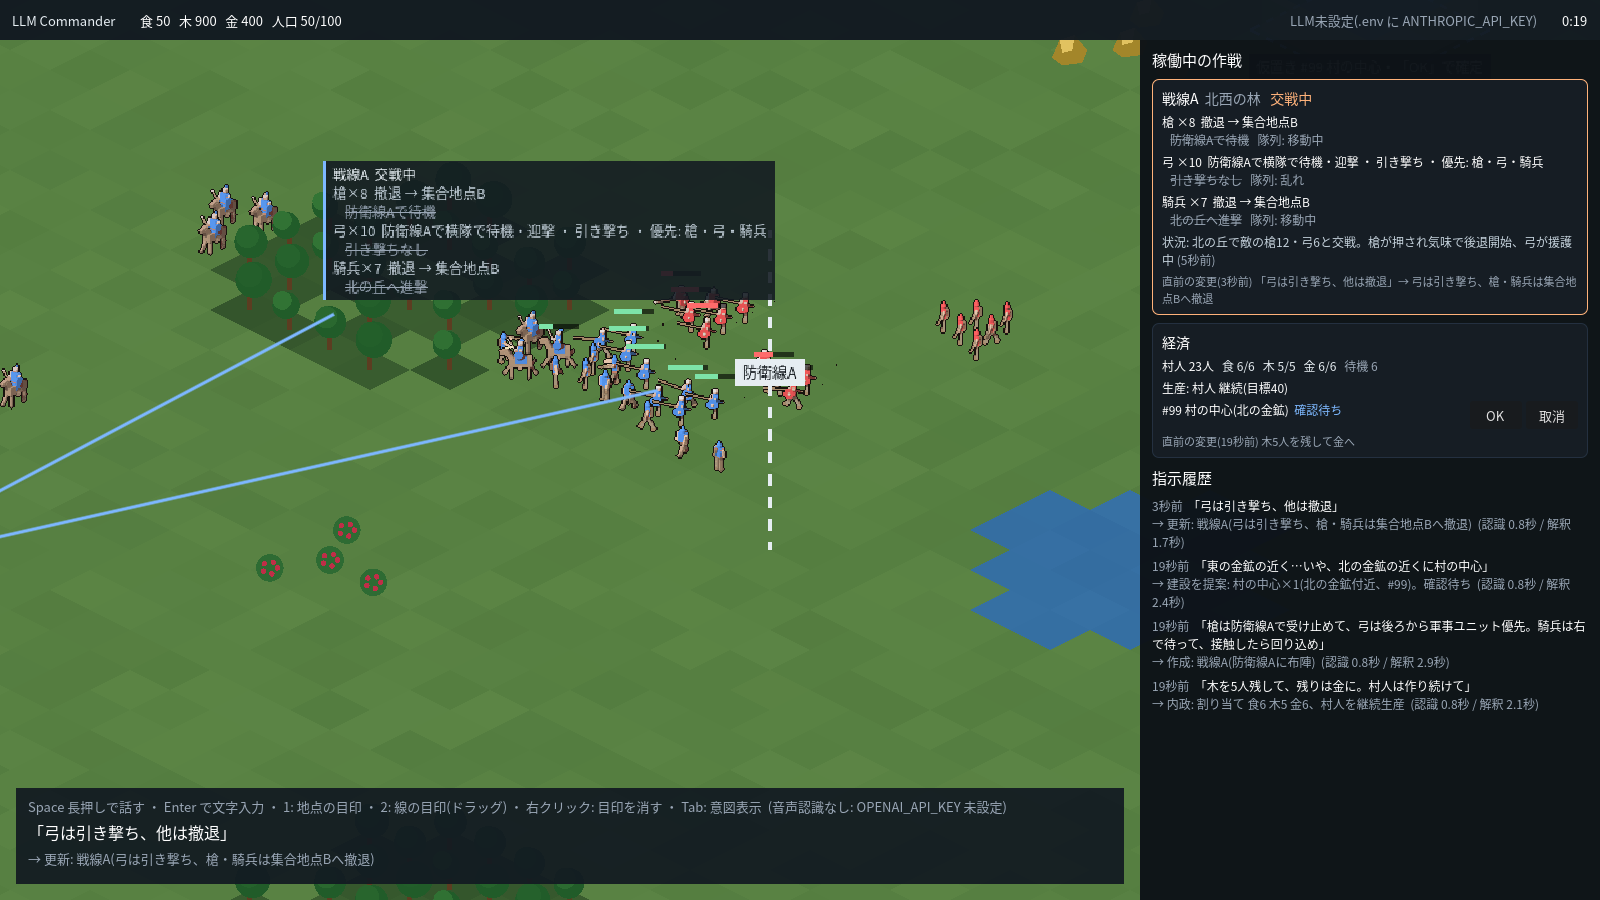
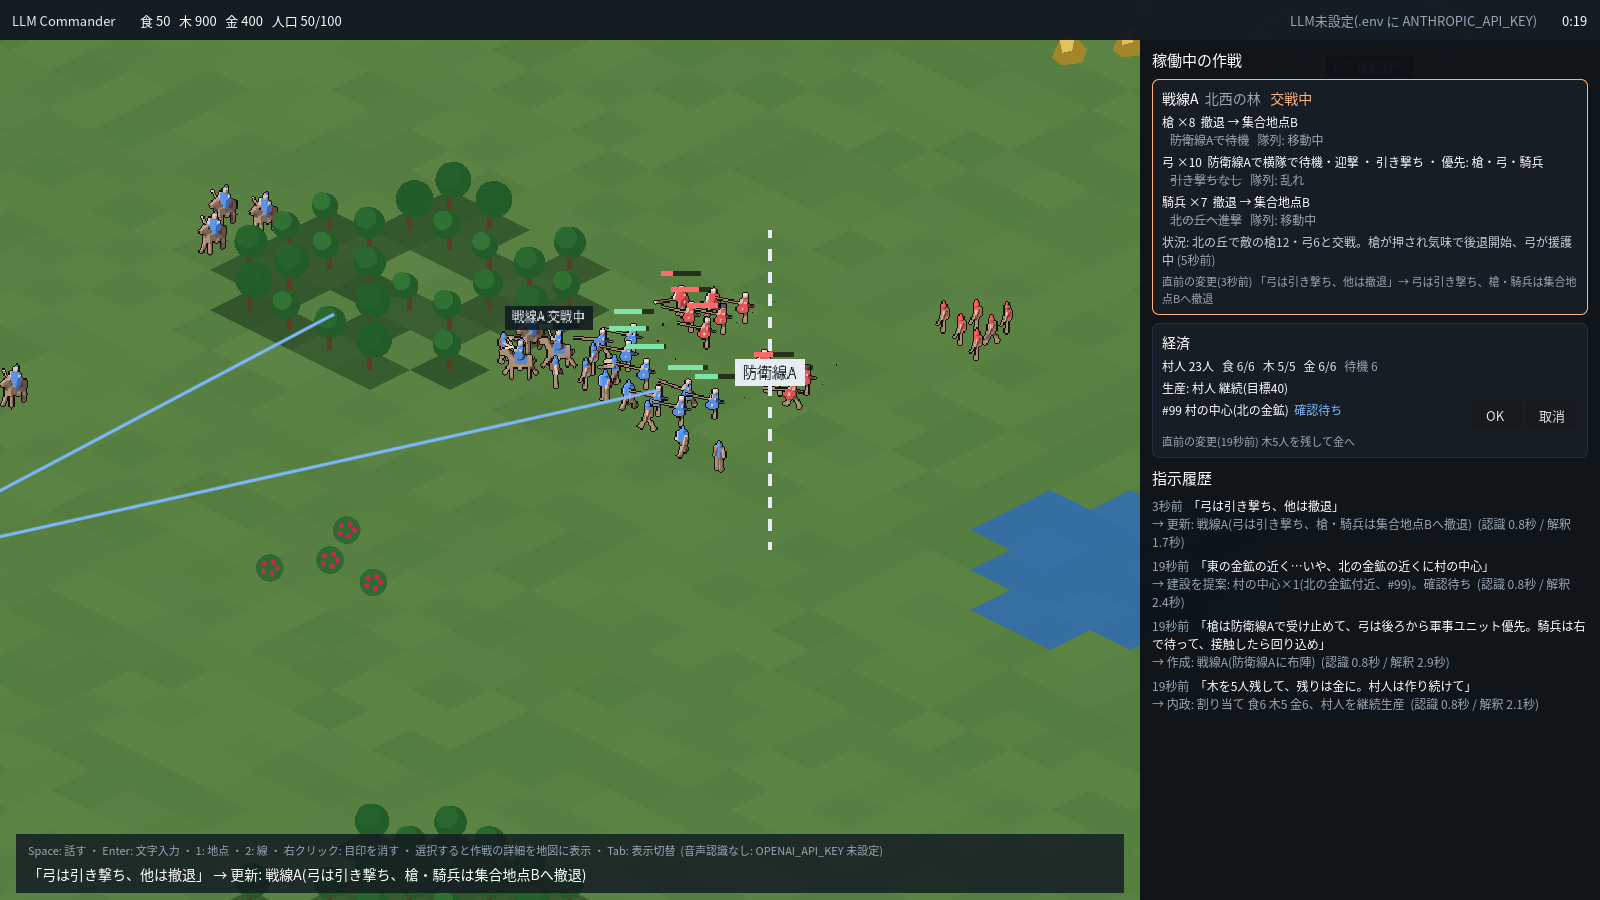
Keep the map visible: compact operation tags, details only for selection
Map shows only an operation name and state per operation; role details and
superseded orders appear on the map only when that operation's units are
selected (always in the side panel). Shorter build/alert labels and a
two-line voice bar.

Claude-Session: https://claude.ai/code/session_013aJJS7YtpBxe8xFsoGgE6F

Changed region(s): [[0.0, 0.8711, 0.7188, 0.9956], [0.1875, 0.1556, 0.5, 0.3733]]

diff --git a/game/src/View/Hud.cs b/game/src/View/Hud.cs
@@ -78,21 +78,23 @@ public partial class Hud : CanvasLayer
         rightBox.AddChild(_history);
 
         // 音声バー
-        var voice = Panel(new Color(0.07f, 0.1f, 0.13f, 0.93f));
+        var voice = Panel(new Color(0.07f, 0.1f, 0.13f, 0.82f));
         voice.AnchorTop = 1;
         voice.AnchorBottom = 1;
         voice.AnchorRight = 1;
         voice.OffsetLeft = 16;
         voice.OffsetRight = -PanelWidth - 16;
-        voice.OffsetTop = -112;
-        voice.OffsetBottom = -16;
+        voice.OffsetTop = -66;
+        voice.OffsetBottom = -12;
         root.AddChild(voice);
         var vbox = new VBoxContainer();
         voice.AddChild(vbox);
+        // 2行だけ: 操作の案内(小さく)と、直前の発話と結果(1行に収める)
         _voiceState = new Label { Modulate = Palette.Muted };
-        _voiceLast = new Label();
-        _voiceLast.AddThemeFontSizeOverride("font_size", 16);
-        _voiceResult = new Label { Modulate = Palette.Muted, AutowrapMode = TextServer.AutowrapMode.WordSmart };
+        _voiceState.AddThemeFontSizeOverride("font_size", 11);
+        _voiceLast = new Label { TextOverrunBehavior = TextServer.OverrunBehavior.TrimEllipsis, ClipText = true };
+        _voiceLast.AddThemeFontSizeOverride("font_size", 14);
+        _voiceResult = new Label { Visible = false };
         _input = new LineEdit { PlaceholderText = "Enter で文字入力(音声の代わり)。Esc でキャンセル", Visible = false };
         _input.TextSubmitted += t =>
         {
@@ -218,10 +220,9 @@ public partial class Hud : CanvasLayer
 
         var last = ts.History.LastOrDefault();
         _voiceState.Text = listening ? "● 聞き取り中… (Space を離すと送信。話しながらクリックした地点は「指示点」になる)" :
-            "Space 長押しで話す ・ Enter で文字入力 ・ 1: 地点の目印 ・ 2: 線の目印(ドラッグ) ・ 右クリック: 目印を消す ・ Tab: 意図表示" + micNote;
+            "Space: 話す ・ Enter: 文字入力 ・ 1: 地点 ・ 2: 線 ・ 右クリック: 目印を消す ・ 選択すると作戦の詳細を地図に表示 ・ Tab: 表示切替" + micNote;
         _voiceState.Modulate = listening ? Palette.Warn : Palette.Muted;
-        _voiceLast.Text = last != null ? $"「{last.Utterance}」" : "";
-        _voiceResult.Text = last == null ? "" : last.Pending ? "解釈中…" : "→ " + last.Result;
+        _voiceLast.Text = last == null ? "" : $"「{last.Utterance}」 " + (last.Pending ? "→ 解釈中…" : "→ " + last.Result);
 
         if (w.Winner is { } win)
         {

diff --git a/game/src/View/OverlayView.cs b/game/src/View/OverlayView.cs
@@ -12,6 +12,8 @@ public partial class OverlayView : Node2D
     public World? World;
     public Font? Font;
     public bool ShowIntent = true;
+    /// <summary>選択中のユニット。その作戦だけ地図上に詳しい内容を出す。</summary>
+    public HashSet<int> Selected = new();
     public Rect2? SelectBox;
     public List<SVec> SpeakingClicks = new();
     public (SVec a, SVec b)? DraftLine;
@@ -101,8 +103,13 @@ public partial class OverlayView : Node2D
                     if (role.Trigger is { Then.Anchor: { } ta })
                         Arrow(sc, Iso.ToScreen(ta.Center), Palette.Muted, 2f, true);
                 }
-                // 作戦ごとに1枚のラベル。部隊の上に、役割を1行ずつ
+                // 地図には作戦名と状態だけの小さな札。詳しい内容は右パネルと、選択したときだけ
                 var oc = new SVec(all.Average(u => u.Pos.X), all.Average(u => u.Pos.Y));
+                if (!all.Any(u => Selected.Contains(u.Id)))
+                {
+                    Label(Iso.ToScreen(oc) + new Vector2(0, -46), $"{op.Name} {w.OpTag(op)}", Palette.Overlay, bg, 10);
+                    continue;
+                }
                 var lines = new List<(string text, Color color, bool strike)> { ($"{op.Name}  {w.OpTag(op)}", Palette.Overlay, false) };
                 foreach (var role in op.Roles)
                 {
@@ -116,15 +123,15 @@ public partial class OverlayView : Node2D
             }
 
             foreach (var p in ts.Plans.Where(p => p.Status == PlanStatus.Proposed))
-                Label(Iso.ToScreen(p.Center) + new Vector2(0, 30), $"仮置き #{p.Id} {Defs.Ja(p.Kind)}・「OK」で確定", Palette.Overlay, bg, 11);
+                Label(Iso.ToScreen(p.Center) + new Vector2(0, 30), $"#{p.Id} 確認待ち", Palette.Overlay, bg, 10);
         }
 
-        foreach (var a in ts.Alerts.Where(a => w.Time - a.Time < 8))
+        foreach (var a in ts.Alerts.Where(a => w.Time - a.Time < 5))
         {
             var s = Iso.ToScreen(a.Pos);
             float t = (float)(w.Time - a.Time);
             DrawArc(s, 18 + (t * 20 % 30), 0, Mathf.Tau, 28, new Color(Palette.Alert, 1 - (t * 20 % 30) / 30), 2);
-            Label(s + new Vector2(0, -40), a.Text, Palette.Overlay, new Color(0.23f, 0.09f, 0.09f, 0.92f), 12);
+            Label(s + new Vector2(0, -36), a.Text, Palette.Overlay, new Color(0.23f, 0.09f, 0.09f, 0.85f), 10);
         }
 
         for (int i = 0; i < SpeakingClicks.Count; i++)

diff --git a/game/src/View/Main.cs b/game/src/View/Main.cs
@@ -61,7 +61,7 @@ public partial class Main : Node2D
         AddChild(_view);
         _hud = new Hud();
         AddChild(_hud);
-        _overlay = new OverlayView { World = _world, Font = _hud.Font };
+        _overlay = new OverlayView { World = _world, Font = _hud.Font, Selected = _selected };
         AddChild(_overlay);
         _voice = new Voice();
         AddChild(_voice);
@@ -140,6 +140,8 @@ public partial class Main : Node2D
         for (int i = 0; i < 20 * 3; i++) _world.Step();
         DemoScenario.Retreat(_world);
         for (int i = 0; i < 20 * 3; i++) _world.Step();
+        if (OS.GetEnvironment("LLMC_DEMO_SELECT") == "1")
+            foreach (var u in _world.Members(op)) _selected.Add(u.Id);
         _cam.Position = Iso.ToScreen(new SVec(30, 44)) + new Vector2(Hud.PanelWidth / 2f / _cam.Zoom.X, 0);
     }
 
